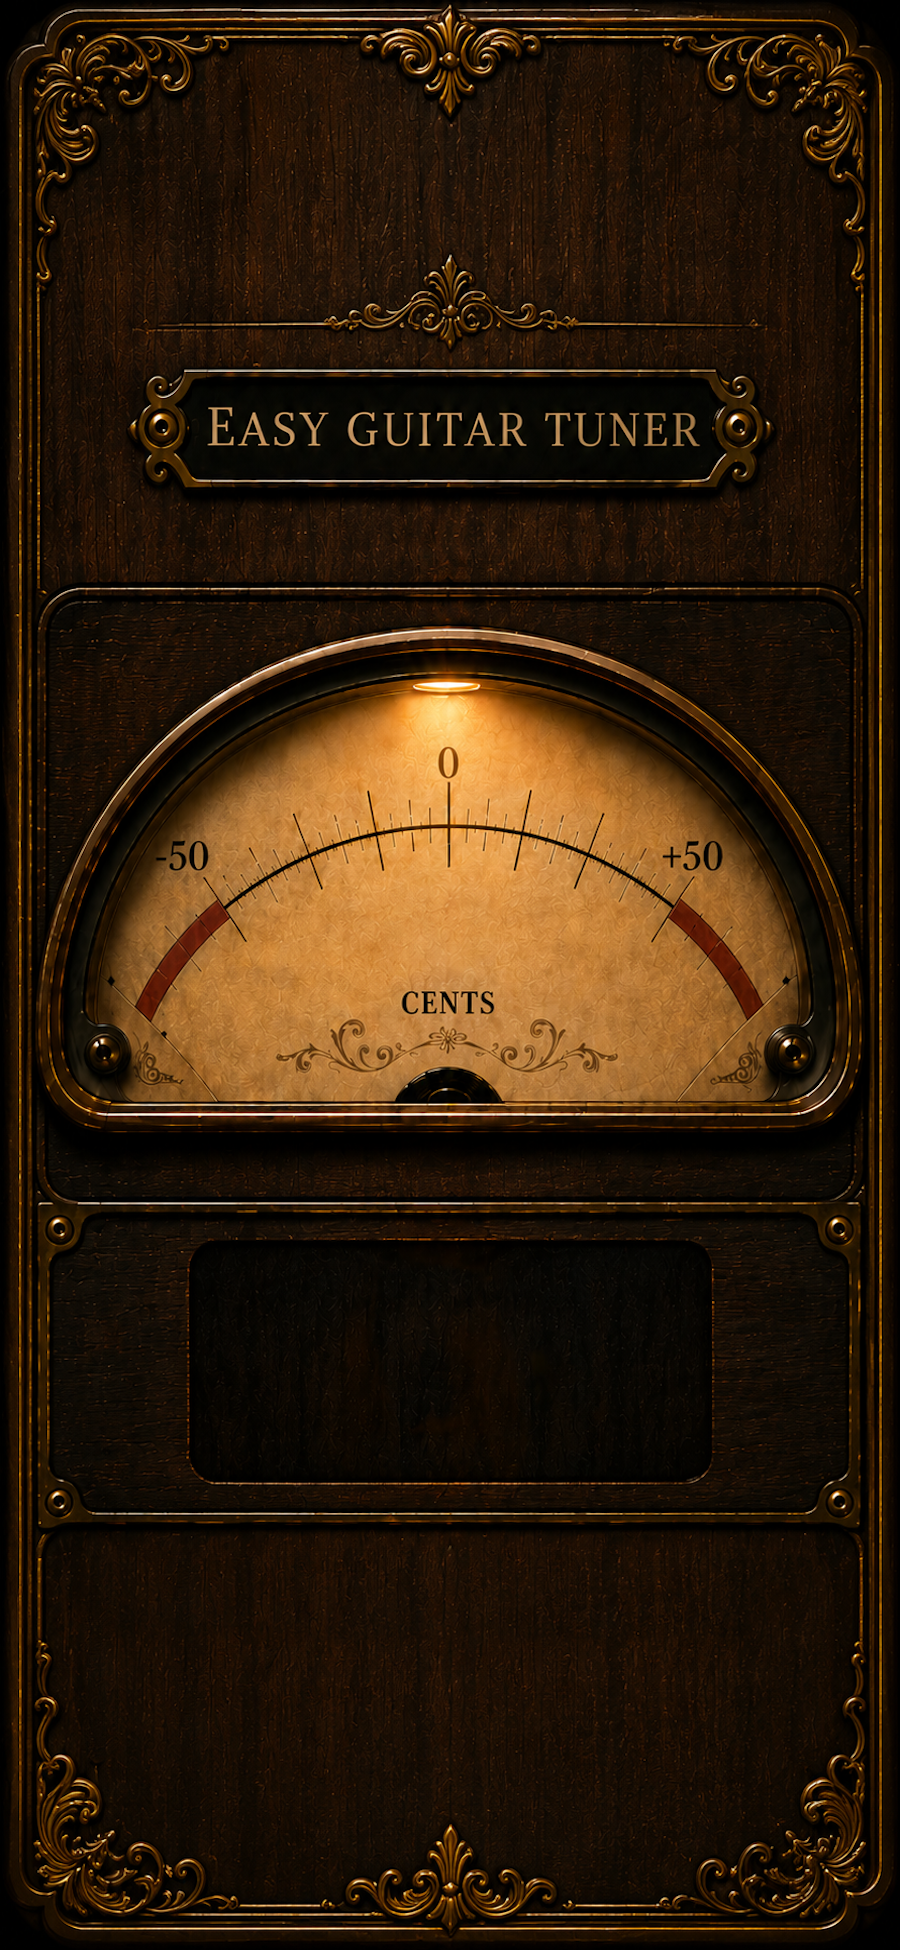
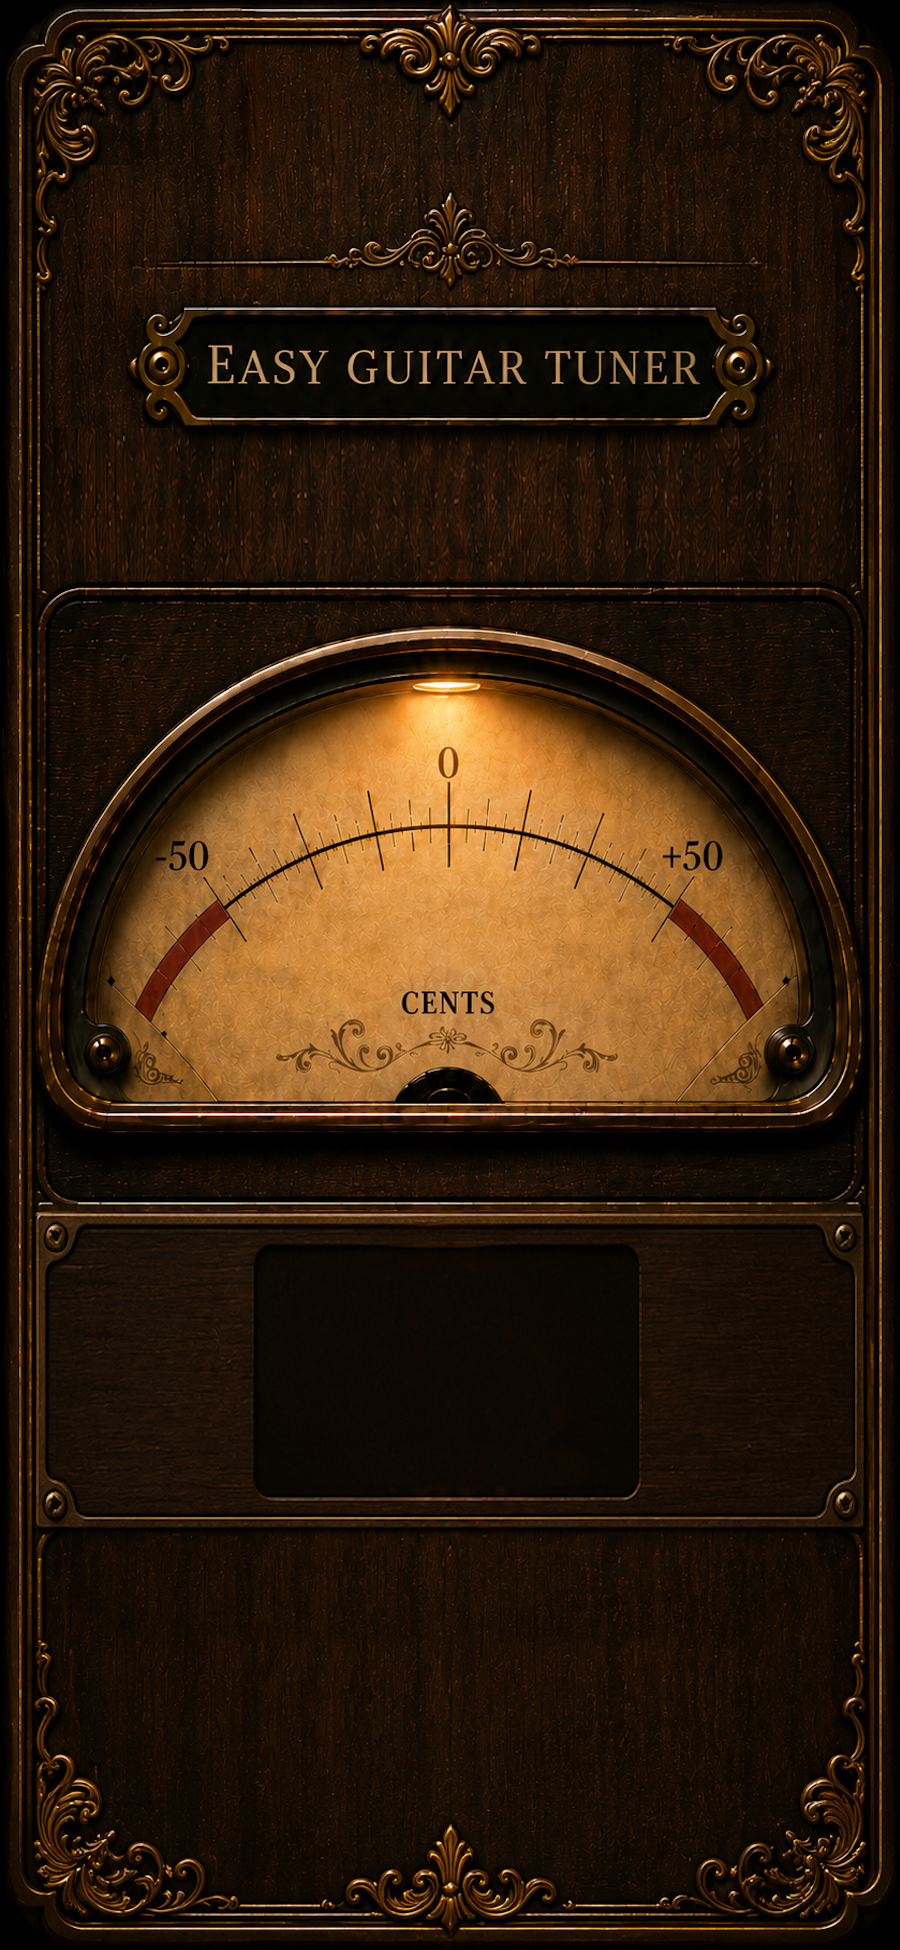
Backup: fundal nou + afisaj pe text peste caseta din imagine (fara Border), etichete laterale stilizate

Changed region(s): [[0.1244, 0.0923, 0.8711, 0.2769], [0.0311, 0.6154, 0.9644, 0.8], [0.1244, 0.0923, 0.1556, 0.1231]]

diff --git a/MainPage.xaml b/MainPage.xaml
@@ -14,24 +14,67 @@
             AbsoluteLayout.LayoutFlags="All"
             NeedleAngle="{Binding NeedleAngle}" />
 
-        <VerticalStackLayout
-            AbsoluteLayout.LayoutBounds="0.5,0.69,0.7,0.12"
+        <Grid
+            AbsoluteLayout.LayoutBounds="0.5,0.73,0.85,0.12"
             AbsoluteLayout.LayoutFlags="All"
-            Spacing="2"
+            ColumnDefinitions="*,2*,*"
             VerticalOptions="Center">
 
-            <Label Text="{Binding FrequencyText}"
-                   HorizontalOptions="Center"
-                   FontSize="26"
-                   FontAttributes="Bold"
-                   TextColor="#F5E6C8" />
+            <VerticalStackLayout Grid.Column="0"
+                                 HorizontalOptions="Center"
+                                 VerticalOptions="Center"
+                                 Margin="0,6,0,0"
+                                 Spacing="0">
+                <Label Text="STANDARD"
+                       HorizontalOptions="Center"
+                       FontSize="7"
+                       TextColor="#C9B68A" />
+                <Label Text="440 Hz"
+                       HorizontalOptions="Center"
+                       FontSize="9"
+                       TextColor="#C9B68A" />
+            </VerticalStackLayout>
 
-            <Label Text="{Binding StatusText}"
-                   HorizontalOptions="Center"
-                   FontSize="14"
-                   TextColor="#C9B68A" />
+            <VerticalStackLayout Grid.Column="1"
+                                 HorizontalOptions="Center"
+                                 VerticalOptions="Center"
+                                 Spacing="-2">
+                <Label HorizontalOptions="Center">
+                    <Label.FormattedText>
+                        <FormattedString>
+                            <Span Text="{Binding NoteText}"
+                                  FontSize="34"
+                                  FontAttributes="Bold"
+                                  TextColor="#F2A640" />
+                            <Span Text="{Binding OctaveText}"
+                                  FontSize="16"
+                                  FontAttributes="Bold"
+                                  TextColor="#F2A640" />
+                        </FormattedString>
+                    </Label.FormattedText>
+                </Label>
+                <Label Text="{Binding FrequencyText}"
+                       HorizontalOptions="Center"
+                       FontSize="12"
+                       TextColor="#E8922E" />
+            </VerticalStackLayout>
 
-        </VerticalStackLayout>
+            <VerticalStackLayout Grid.Column="2"
+                                 HorizontalOptions="Center"
+                                 VerticalOptions="Center"
+                                 Margin="0,6,0,0"
+                                 Spacing="0">
+                <Label Text="{Binding CentsText}"
+                       HorizontalOptions="Center"
+                       FontSize="11"
+                       TextColor="#C9B68A" />
+                <Label Text="CENTS"
+                       HorizontalOptions="Center"
+                       FontSize="7"
+                       TextColor="#C9B68A" />
+            </VerticalStackLayout>
+
+        </Grid>
 
         <Button Text="{Binding ToggleButtonText}"
                 Command="{Binding ToggleListeningCommand}"

diff --git a/ViewModels/TunerViewModel.cs b/ViewModels/TunerViewModel.cs
@@ -13,8 +13,10 @@ public class TunerViewModel : INotifyPropertyChanged
 	readonly INoteAnalyzerService _noteAnalyzerService;
 	readonly ISessionLogger _logger;
 
+	string _noteText = "—";
+	string _octaveText = string.Empty;
 	string _frequencyText = "0.0 Hz";
-	string _statusText = "Apasati Start";
+	string _centsText = string.Empty;
 	double _needleAngle;
 	bool _isListening;
 	string _toggleButtonText = "Start";
@@ -46,16 +48,28 @@ public class TunerViewModel : INotifyPropertyChanged
 
 	public event PropertyChangedEventHandler? PropertyChanged;
 
+	public string NoteText
+	{
+		get => _noteText;
+		private set => SetProperty(ref _noteText, value);
+	}
+
+	public string OctaveText
+	{
+		get => _octaveText;
+		private set => SetProperty(ref _octaveText, value);
+	}
+
 	public string FrequencyText
 	{
 		get => _frequencyText;
 		private set => SetProperty(ref _frequencyText, value);
 	}
 
-	public string StatusText
+	public string CentsText
 	{
-		get => _statusText;
-		private set => SetProperty(ref _statusText, value);
+		get => _centsText;
+		private set => SetProperty(ref _centsText, value);
 	}
 
 	public double NeedleAngle
@@ -179,14 +193,18 @@ public class TunerViewModel : INotifyPropertyChanged
 	{
 		if (noteResult.FrequencyHz <= 0)
 		{
+			NoteText = "—";
+			OctaveText = string.Empty;
 			FrequencyText = "0.0 Hz";
-			StatusText = IsListening ? "Incepeti sa cantati" : "Apasati Start";
+			CentsText = string.Empty;
 			NeedleAngle = 0;
 			return;
 		}
 
+		NoteText = noteResult.NoteName;
+		OctaveText = noteResult.Octave.ToString();
 		FrequencyText = $"{noteResult.FrequencyHz:F1} Hz";
-		StatusText = $"{noteResult.NoteName}{noteResult.Octave}   {noteResult.CentsDeviation:+0.0;-0.0;0} cents";
+		CentsText = $"{noteResult.CentsDeviation:+0;-0;0}";
 		NeedleAngle = MapCentsToAngle(noteResult.CentsDeviation);
 	}
 

diff --git a/PLAN.md b/PLAN.md
@@ -16,7 +16,7 @@ Microfon (Plugin.Maui.Audio IAudioStreamer)
     -> PitchDetectorService     (RMS gate + Hann + FFT + HPS via MathNet -> Hz)
     -> TunerViewModel           (confirmare 2 cicluri + EMA + hold time -> NoteResult)
     -> NoteAnalyzerService      (nota + cents deviation)
-    -> MainPage                 (AnalogMeterView + Label Hz + Label nota/cents)
+    -> MainPage                 (AnalogMeterView + afisaj 3 coloane: STANDARD/440Hz | nota+Hz | cents/CENTS)
     -> FileSessionLogger        (tuner-session.log)
 ```
 
@@ -80,11 +80,10 @@ Microfon (Plugin.Maui.Audio IAudioStreamer)
 ### ViewModel
 
 **`ViewModels/TunerViewModel.cs`**
-- Proprietati bindabile: `FrequencyText`, `StatusText`, `NeedleAngle`, `ToggleButtonText`, `IsListening`
-- `StatusText`:
-  - Cand exista semnal: `"B3   +4.9 cents"` (nota + octava + deviatie)
-  - Cand nu exista semnal: `"Incepeti sa cantati"` daca asculta, `"Apasati Start"` altfel
+- Proprietati bindabile: `NoteText`, `OctaveText`, `FrequencyText`, `CentsText`, `NeedleAngle`, `ToggleButtonText`, `IsListening`
+- `NoteText` / `OctaveText`: nota detectata si octava (ex: `"E"` + `"2"`); cand nu exista semnal `NoteText = "—"`, `OctaveText = ""`
 - `FrequencyText`: ex `"247.6 Hz"` sau `"0.0 Hz"` cand nu se detecteaza
+- `CentsText`: deviatia rotunjita la intreg cu semn (ex: `"-1"`, `"+4"`); gol cand nu exista semnal
 - Se aboneaza la `OnAudioCaptured` din `AudioCaptureService`
 - Strategie de smoothing pe frecventa detectata (confirmare + EMA + hold):
   - **Cold start / Saltea mare** (`|RAW - SMOOTH| / SMOOTH > 0.15`, JumpThreshold=0.15): noul RAW intra in `_pendingFrequency` — acul NU se misca inca. Doar daca urmatorul ciclu confirma cu o frecventa similara (`< 5%` diferenta, SimilarityThreshold=0.05), `SMOOTH = RAW` (snap). Filtreaza glitch-urile izolate de 1 ciclu.
@@ -115,9 +114,12 @@ Microfon (Plugin.Maui.Audio IAudioStreamer)
 **`MainPage.xaml`** + **`MainPage.xaml.cs`**
 - `AbsoluteLayout` cu pozitionare proportionala peste imaginea de fundal
 - `AnalogMeterView` acopera intregul ecran (`LayoutBounds="0,0,1,1"`)
-- Frecventa + status (culori warm `#F5E6C8` / `#C9B68A`) plasate peste dreptunghiul negru de afisaj din cadran (`LayoutBounds="0.5,0.69,0.7,0.12"`)
+- Afisaj pe 3 coloane (`Grid ColumnDefinitions="*,2*,*"`, `LayoutBounds="0.5,0.73,0.85,0.12"`) plasat peste caseta de afisaj care e deja desenata in imaginea de fundal. Coloana centrala e de 2x latimea laterelelor (raport 1:2:1) ca sa coincida cu caseta neagra; coloanele laterale au `Margin="0,6,0,0"`:
+  - **Stanga**: eticheta `STANDARD` + valoare statica `440 Hz` (referinta acordaj, culoare `#C9B68A`, fonturi 7 / 9)
+  - **Centru**: **doar text** (fara niciun chenar desenat) plasat peste caseta neagra din imagine — nota mare + octava ca subscript (`FormattedString` doua `Span`-uri, `#F2A640`, fonturi 34 / 16) si frecventa dedesubt (`#E8922E`, font 12)
+  - **Dreapta**: valoarea `CentsText` + eticheta `CENTS` (culoare `#C9B68A`, fonturi 11 / 7)
 - Buton Start / Stop in stil vintage (fundal `#3A2A18`, border `#8A6A3A`, text `#F5E6C8`) peste panoul de jos (`LayoutBounds="0.5,0.9,0.7,0.09"`)
-- Titlul aplicatiei este parte din imaginea de fundal (fara header XAML duplicat)
+- Titlul aplicatiei si caseta de afisaj sunt parte din imaginea de fundal (fara header XAML si fara `Border` desenat — peste fundal se aseaza doar text)
 
 ---
 
@@ -164,11 +166,11 @@ Microfon (Plugin.Maui.Audio IAudioStreamer)
 | `Services/NoteAnalyzerService.cs` | Creat |
 | `Services/ISessionLogger.cs` | Creat |
 | `Services/FileSessionLogger.cs` | Creat |
-| `ViewModels/TunerViewModel.cs` | Modificat (smoothing + EMA + hold time; unghi ac ±50° pentru ±50 centi) |
+| `ViewModels/TunerViewModel.cs` | Modificat (proprietati NoteText/OctaveText/CentsText pentru afisaj pe coloane; smoothing + EMA + hold time; unghi ac ±50° pentru ±50 centi) |
 | `Controls/AnalogMeterView.cs` | Modificat (grafica pe imagini: fundal + ac rotit din `Resources/Raw`) |
-| `Resources/Raw/background.png` | Creat (fundal cadran VU, 900×1950) |
+| `Resources/Raw/background.png` | Creat (fundal cadran VU, 900×1950; include titlul si caseta neagra de afisaj desenate in imagine) |
 | `Resources/Raw/needle.png` | Creat (ac indicator, 20×284) |
-| `MainPage.xaml` | Modificat (AbsoluteLayout proportional peste imagine, stil vintage) |
+| `MainPage.xaml` | Modificat (afisaj pe 3 coloane `*,2*,*` la `0.5,0.73`; doar text peste caseta neagra din imagine, fara `Border`; etichete laterale culoare `#C9B68A`) |
 | `Services/PitchDetectorService.cs` | Modificat (prag RMS scazut la 0.003 pentru coarde subtiri) |
 | `MauiProgram.cs` | Modificat (fonts) |
 | `App.xaml.cs` | Modificat (DI + fereastra fixa 249x540 pe Windows) |
@@ -285,6 +287,7 @@ Folderele excluse din backup (`bin`, `obj`, `.vs`, `.git`, `packages`) se regene
 - **Range ac ±50 centi**: cadranul desenat (`background.png`) are marcaje `-50 ... 0 ... +50`. `TunerViewModel.MapCentsToAngle` clampeaza cents la ±50 si mapeaza la ±50° (`MaxCentsForNeedle = 50`, `MaxNeedleAngleDegrees = 50`), aliniat la marcaje.
 - **Grafica pe imagini (AnalogMeterView)**: in loc de desen procedural, controlul incarca `background.png` si `needle.png` din `Resources/Raw` ca `SKImage` (o singura data, cache). Fundalul e scalat "contain" si centrat. Acul e desenat peste fundal cu transformarea `Translate(pivot) → Scale(scale) → RotateDegrees(NeedleAngle) → DrawImage(needle, -needleW/2, -needleH)`, deci pivotul de rotatie e baza acului. Pozitia pivotului in cadran = `PivotXFraction`/`PivotYFraction` (fractii din imagine), reglabile vizual.
 - **De ce Resources/Raw si nu MauiImage**: imaginile trebuie pastrate la rezolutia reala (acul e deja la scara corecta fata de fundal). `MauiImage` ar aplica rescalare dupa DPI si ar strica raportul. `MauiAsset` (folderul `Resources/Raw`) pastreaza fisierul pixel-perfect, incarcabil cu `FileSystem.OpenAppPackageFileAsync`.
+- **Caseta de afisaj e parte din imagine**: noua imagine de fundal include deja caseta neagra de afisaj (si titlul) desenate. In XAML NU se mai deseneaza niciun `Border` — peste fundal se aseaza doar text (nota/frecventa centrate peste caseta neagra). Sursa imaginii editate e in `Images/background_1950_900.png`; pentru a o folosi se copiaza peste `Resources/Raw/background.png` (acelasi nume de asset folosit de `AnalogMeterView`). Daca pozitia casetei sau a cadranului se schimba la o editare viitoare, se recalibreaza `LayoutBounds` din `MainPage.xaml` (centrul randului de afisaj, acum `0.5,0.73`) si pivotul acului din `AnalogMeterView.cs`.
 - **Calibrare pivot/unghi**: `PivotXFraction = 0.5`, `PivotYFraction = 0.56` si `MaxNeedleAngleDegrees = 50` sunt valorile validate vizual — baza acului sta pe pivotul fizic al cadranului si varful atinge `±50` pe marcaje. Daca se schimba imaginea de fundal, aceste valori trebuie recalibrate.
 - **Hold time vs decay fizic**: coardele subtiri (B3 = 247 Hz, E4 = 330 Hz) au timp de decay fizic de ~3x mai scurt decat coardele groase (E2 = 82 Hz). Fara hold time, E4 ar fi afisat doar 200ms inainte ca RMS sa scada sub prag. Combinatia "prag RMS scazut la 0.003 + hold de 3 cicluri" extinde afisarea E4 de la ~200ms la ~1.2s, suficient pentru utilizator sa citeasca cents-urile.
 - **Raport de aspect 19.5:9**: aplicatia este blocata in portret pe Android (atribut `ScreenOrientation.Portrait` in `MainActivity`) si iOS (doar `UIInterfaceOrientationPortrait` in `Info.plist`). Pe Windows, fereastra este fixata la 249×540 pixeli (540/249 ≈ 2.169 ≈ 19.5:9) prin `CreateWindow` in `App.xaml.cs` cu `MinimumWidth = MaximumWidth = 249` si `MinimumHeight = MaximumHeight = 540`. Utilizatorul nu poate redimensiona fereastra pe Windows.